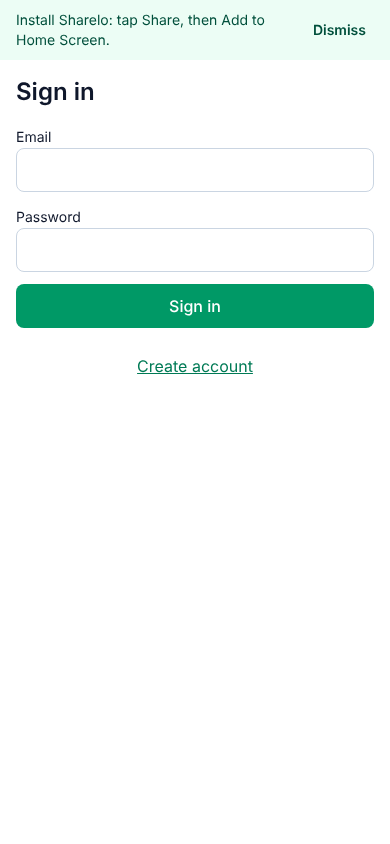
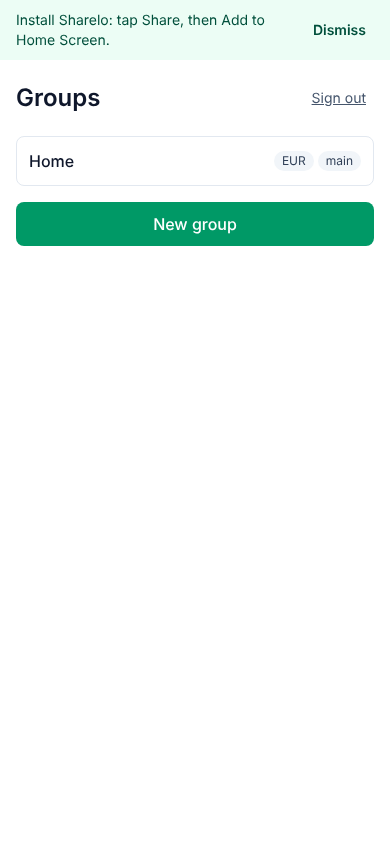
015: result review fixes — manifest and install-hint screenshots, spec matches build
Claude-Session: https://claude.ai/code/session_0193nEqLfN6ysz1ZT6Gfn6e4

diff --git a/frontend/e2e/pwa.spec.ts b/frontend/e2e/pwa.spec.ts
@@ -27,6 +27,14 @@ test("test_manifest_served_with_name_and_icons", async ({ page, request }, testI
     expect(res.status()).toBe(200);
     expect(res.headers()["content-type"]).toContain("image/png");
   }
+  // Chromium downloads a .webmanifest instead of showing it, so the screenshot renders what was
+  // asserted: the manifest's name and each icon, loaded from the served URLs.
+  await page.evaluate((m) => {
+    document.body.innerHTML = `<h1>${m.name}</h1>${m.icons
+      .map((i: { src: string; sizes: string }) => `<p>${i.sizes}<br><img src="${i.src}" width="96"></p>`)
+      .join("")}`;
+  }, manifest);
+  await expect(page.locator("img")).toHaveCount(manifest.icons.length);
   await snap(page, testInfo);
 });
 
@@ -127,12 +135,14 @@ test("test_install_hint_visible_then_dismissed", async ({ browser }, testInfo) =
       "Mozilla/5.0 (iPhone; CPU iPhone OS 17_0 like Mac OS X) AppleWebKit/605.1.15 (KHTML, like Gecko) Version/17.0 Mobile/15E148 Safari/604.1",
   });
   const page = await context.newPage();
-  await page.goto("/login");
-  await expect(page.getByRole("region", { name: "Install Sharelo" })).toContainText("Add to Home Screen");
+  await loginAsFixtureUser(page);
+  const hint = page.getByRole("region", { name: "Install Sharelo" });
+  await expect(hint).toContainText("Add to Home Screen");
+  await expect(page.getByText("Home", { exact: true }).first()).toBeVisible();
   await snap(page, testInfo);
   await page.getByRole("button", { name: "Dismiss" }).click();
   await page.reload();
-  await expect(page.getByRole("heading").first()).toBeVisible();
-  await expect(page.getByRole("region", { name: "Install Sharelo" })).toHaveCount(0);
+  await expect(page.getByText("Home", { exact: true }).first()).toBeVisible();
+  await expect(hint).toHaveCount(0);
   await context.close();
 });

diff --git a/docs/specs/015.md b/docs/specs/015.md
@@ -12,8 +12,8 @@ Not done.
 
 ## Proposal
 **Frontend PWA.** Add `vite-plugin-pwa` (devDependency, pinned by the lockfile).
-- Manifest (generated by the plugin): name `Sharelo`, short_name `Sharelo`, `start_url: "/"`, `display: standalone`, theme/background colour from the existing slate palette, icons 192, 512 and a 512 maskable. Icons are PNGs committed under `frontend/public/icons/`, produced once by `scripts/make-icons.py` from a plain SVG (`frontend/public/icons/icon.svg`: solid colour + letter "S", no brand artwork); the script is run by hand, output committed, nothing generated at build time.
-- Service worker (`generateSW`), one mechanism: **navigations are network-only and `offline.html` is the failure fallback; the app shell is never served as a navigation response from cache.** Config: `workbox.navigateFallback: null` (explicit: the plugin's `generateSW` default is `index.html`, which would register a NavigationRoute serving the cached shell for every navigation, `/admin/` included); `workbox.globIgnores: ["**/index.html"]` and `workbox.directoryIndex: null` so the precache route can never map `/` to the shell (the plugin's default `globPatterns` include html); `runtimeCaching: [{urlPattern: ({request}) => request.mode === "navigate", handler: "NetworkOnly", options: {precacheFallback: {fallbackURL: "/offline.html"}}}]`; `additionalManifestEntries` precaches `offline.html` (a static file in `public/`, inline CSS, `<title>Offline — Sharelo</title>`, text "Sharelo needs a connection"); hashed JS/CSS/icon assets are precached as usual so the offline page and a later reload are instant. `/api/` and `/admin/` are not matched by any runtime route: they go straight to the network and **nothing under `/api/` is ever put in Cache Storage** (no NetworkFirst), so no authenticated response outlives logout and offline never shows stale balances. Mutations are never queued (no offline writes). `registerType: "autoUpdate"`.
+- Manifest (generated by the plugin): name `Sharelo`, short_name `Sharelo`, `start_url: "/"`, `display: standalone`, theme/background colour from the existing slate palette, icons 192, 512 and a 512 maskable. Icons are PNGs committed under `frontend/public/icons/`, produced once by `frontend/scripts/make-icons.mjs` (Playwright's Chromium rasterises the SVGs; PIL is not available) from a plain SVG (`frontend/public/icons/icon.svg`: solid colour + letter "S", no brand artwork); the script is run by hand, output committed, nothing generated at build time.
+- Service worker (`generateSW`), one mechanism: **navigations are network-only and `offline.html` is the failure fallback; the app shell is never served as a navigation response from cache.** Config: `workbox.navigateFallback: null` (explicit: the plugin's `generateSW` default is `index.html`, which would register a NavigationRoute serving the cached shell for every navigation, `/admin/` included); `workbox.globIgnores: ["**/index.html"]` and `workbox.directoryIndex: null` so the precache route can never map `/` to the shell (the plugin's default `globPatterns` include html); `runtimeCaching: [{urlPattern: ({request}) => request.mode === "navigate", handler: "NetworkOnly", options: {precacheFallback: {fallbackURL: "/offline.html"}}}]`; `offline.html` is precached from the default `globPatterns` as its only source, with no `additionalManifestEntries` (a static file in `public/`, inline CSS, `<title>Offline — Sharelo</title>`, text "Sharelo needs a connection"); hashed JS/CSS/icon assets are precached as usual so the offline page and a later reload are instant. `/api/` and `/admin/` are not matched by any runtime route: they go straight to the network and **nothing under `/api/` is ever put in Cache Storage** (no NetworkFirst), so no authenticated response outlives logout and offline never shows stale balances. Mutations are never queued (no offline writes). `registerType: "autoUpdate"`.
 - `src/components/InstallHint.tsx`: banner shown once when `display-mode: standalone` is false and (Android `beforeinstallprompt` captured → "Install" button; iOS Safari user agent → text "Tap Share, then Add to Home Screen"). Dismissal stored in `localStorage` (try/catch; page renders without it). Component logic takes `userAgent` and the captured event as inputs so tests can drive both branches. Rendered in `App.tsx` above routes, not on `/login`'s critical path.
 - `index.html`: `<link rel="manifest">` comes from the plugin; add `theme-color` meta and `apple-touch-icon`.
 
@@ -47,10 +47,10 @@ Not done.
 **Playwright e2e** (new project `served` in `playwright.config.ts`, spec `frontend/e2e/pwa.spec.ts`, 390×844, screenshots under `docs/screenshots/015/`). The `served` project serves the built SPA from Django itself (8002, no vite preview in its path); see Config shape below.
 - `test_manifest_served_with_name_and_icons`: `/manifest.webmanifest` → name "Sharelo", ≥ 2 icons, each icon URL returns 200 image/png.
 - `test_service_worker_registers`: `navigator.serviceWorker.ready` resolves.
-- `test_offline_reload_shows_offline_page`: load `/` once, wait for `ready` and an active controller, `context.setOffline(true)`; reload `/` and then `goto("/g/<id>/expenses")` → in both cases the document `<title>` is "Offline — Sharelo" and "needs a connection" is visible (not the app shell, not a browser error). Screenshot.
+- `test_offline_reload_shows_offline_page`: load `/` once, wait for `ready` and an active controller, close a forwarding proxy that the test itself runs on 8003 in front of 8002 (`context.setOffline` is not used: Chromium does not apply it to the service worker's own fetches, so the worker would still fetch the shell); reload `/` and then `goto("/g/<id>/expenses")` → in both cases the document `<title>` is "Offline — Sharelo" and "needs a connection" is visible (not the app shell, not a browser error). Screenshot.
 - `test_api_responses_are_not_kept_in_cache_storage`: after signing in and visiting expenses/balances, `caches.keys()` + each cache's keys contain no URL under `/api/` and no entry for `index.html`; property: nothing authenticated survives logout.
 - **KEY (e2e twin)** `test_unknown_api_path_is_not_the_spa_shell_e2e`: sign in, `goto("/g/<id>/expenses")` renders the expenses heading (deep link → shell); `request.get("/api/does-not-exist/")` → 404 and body does not contain `<div id="root">`; `request.get("/api/me")` is JSON (success case, protected by URL order — said plainly). The REPORT shows this e2e red under the same regex mutation as the pytest, then restored.
-- `test_install_hint_visible_then_dismissed`: context created with an iOS-Safari `userAgent` (and not standalone) → the banner with "Add to Home Screen" is visible, screenshot shows it above the groups list; Dismiss → gone after reload. The Android `beforeinstallprompt` branch is vitest-only (headless Chromium never fires it).
+- `test_install_hint_visible_then_dismissed`: context created with an iOS-Safari `userAgent` (and not standalone) → the banner with "Add to Home Screen" is visible after sign-in, screenshot shows it above the groups list; Dismiss → gone after reload. The Android `beforeinstallprompt` branch is vitest-only (headless Chromium never fires it).
 **Config shape** (`webServer` is top-level in Playwright, not per project): one ordered array, started in order — (1) Django 8001 `e2e_prepare && runserver 8001` (existing, the only `e2e_prepare`), (2) `vite preview` 4173 (existing), (3) Django 8002 `runserver 8002 --noreload` with `FRONTEND_DIST=../frontend/dist`, **no `e2e_prepare`** (the database is already prepared by (1)). Both Djangos use the one `sharelo_e2e` database; `workers: 1` and `fullyParallel: false` (already set) cover both projects, so `e2e_reset` calls from any spec are serial. `projects`: `chromium-preview` (existing specs, `baseURL` 4173, `testIgnore: pwa.spec.ts`) and `served` (`testMatch: pwa.spec.ts`, `baseURL` http://localhost:8002). Both run in the same `make e2e` invocation, locally and in CI; a failure is attributed by project name in the list reporter. `frontend/dist` is built by `make e2e`'s existing `npm run build` before Playwright starts and is shared by preview and 8002 (running `npx playwright test` without `make e2e` is already unsupported, `docs/e2e.md`); a stale or missing `dist` cannot occur through `make e2e`. The `served` backend's `ALLOWED_HOSTS` stays `localhost,127.0.0.1` (E2E block).
 Not covered: a real phone install (Kamran does that), `beforeinstallprompt` on a real Chrome, HTTPS/HSTS behind a real tunnel, supercronic actually firing at 06:00, a real offline reload on a phone, `docker compose build` and `config` (no Docker daemon in the cloud; only `config` validity is checked if `docker` exists, else the YAML test above).
 

diff --git a/docs/e2e.md b/docs/e2e.md
@@ -20,4 +20,4 @@ afterwards; never start either by hand. Since 015 a third entry, Django on 8002 
   pinned to the matching 1.56.1); CI runs `npx playwright install --with-deps chromium` first.
 - **Screenshots:** each test writes `docs/screenshots/<ticket>/<test name>.png`, committed.
 - **Google sign-in** is not covered (needs real Google).
-- **015 specs (`pwa.spec.ts`, project `served`, baseURL 8002):** the `preview` project (all earlier specs, vite preview 4173) and `served` run in the same `make e2e`, one worker, so every `e2e_reset` is serial. `dist` is built once by `make e2e` and shared. The offline test cannot use `context.setOffline` (Chromium does not apply it to the service worker's own fetches, so the worker would still fetch the shell from the server); it runs through a forwarding proxy on 8003 that the test closes. Not covered: a real phone install, `beforeinstallprompt` on real Chrome (vitest drives that branch), HTTPS/HSTS behind a tunnel.
+- **015 specs (`pwa.spec.ts`, project `served`, baseURL 8002):** the `preview` project (all earlier specs, vite preview 4173) and `served` run in the same `make e2e`, one worker, so every `e2e_reset` is serial. `dist` is built once by `make e2e` and shared. The offline test cannot use `context.setOffline` (Chromium does not apply it to the service worker's own fetches, so the worker would still fetch the shell from the server); it runs through a forwarding proxy on 8003 that the test closes. Do not "simplify" this back to `setOffline`: the test would go green or red for the wrong reason. Not covered: a real phone install, `beforeinstallprompt` on real Chrome (vitest drives that branch), HTTPS/HSTS behind a tunnel.
